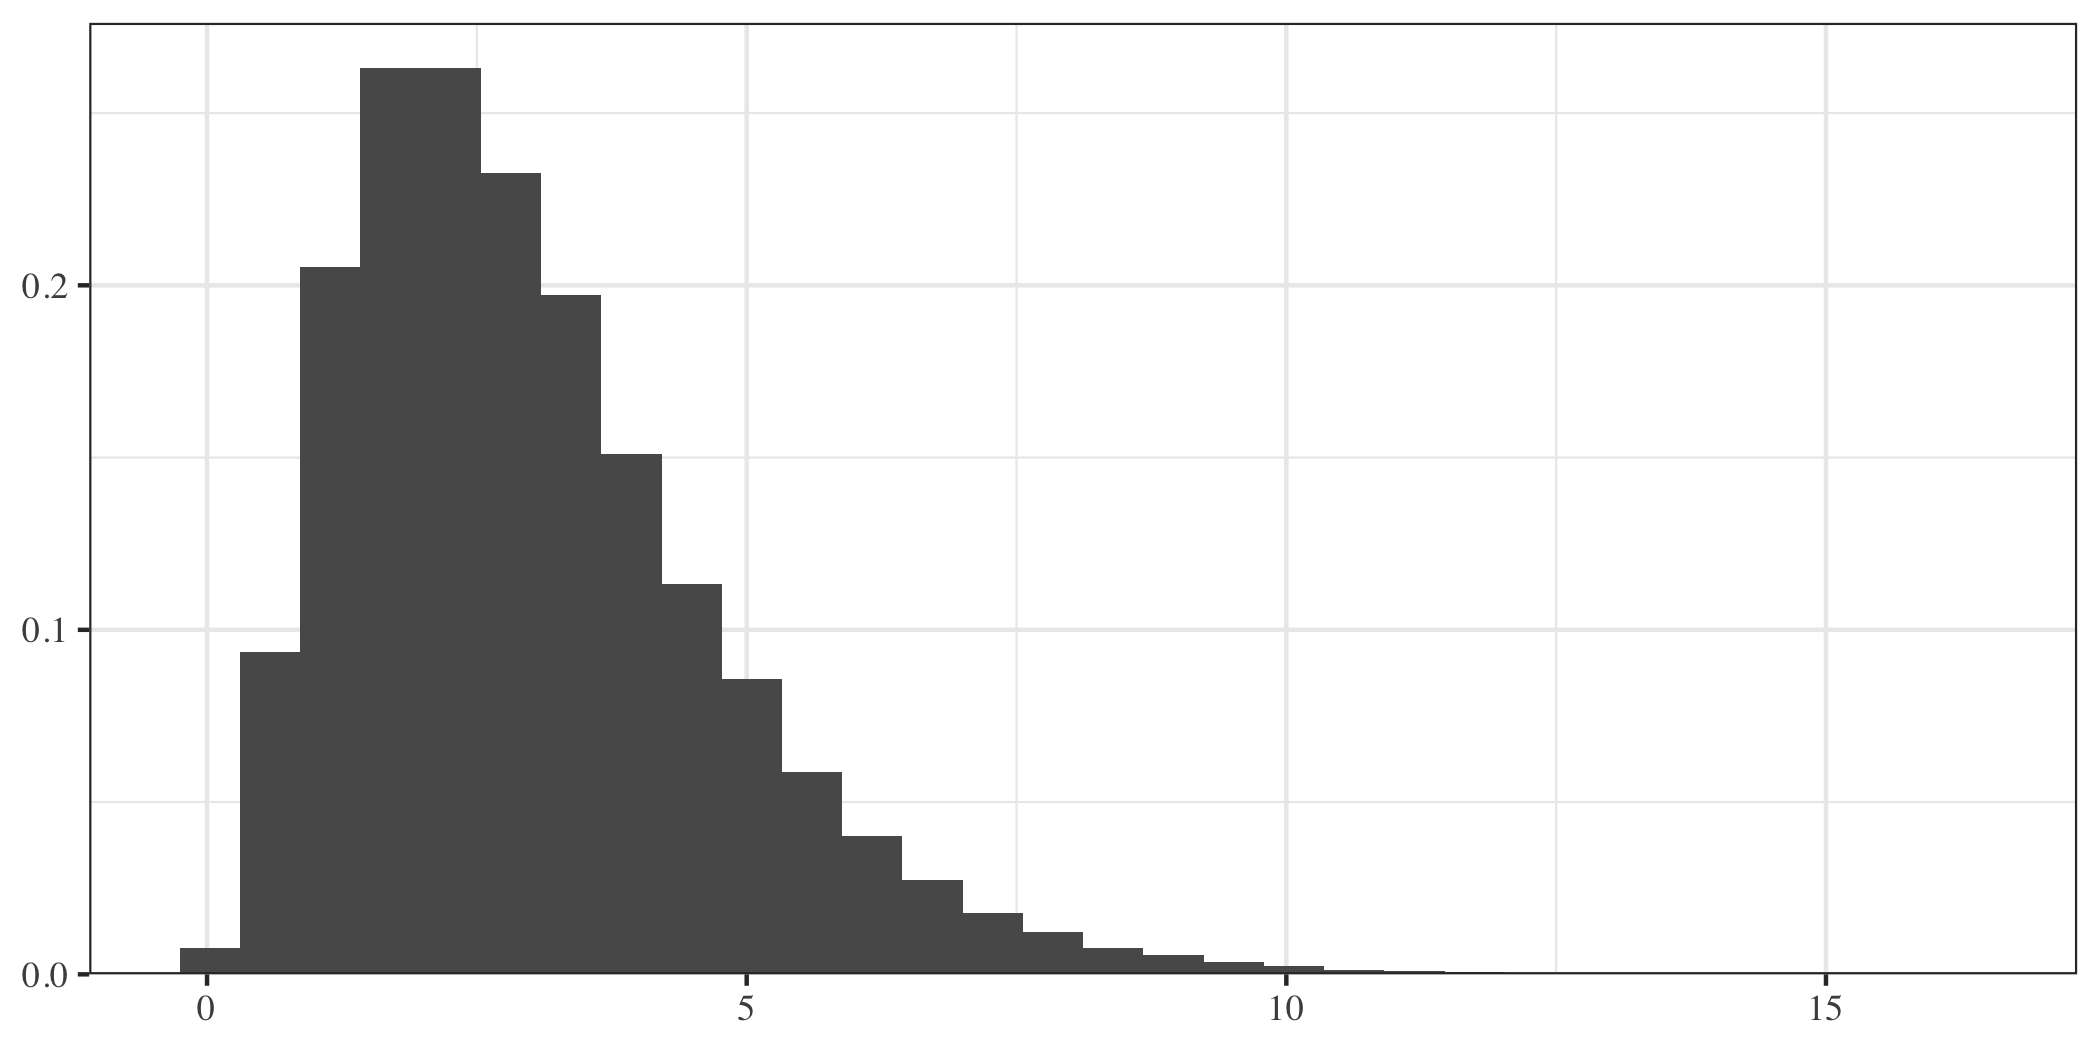
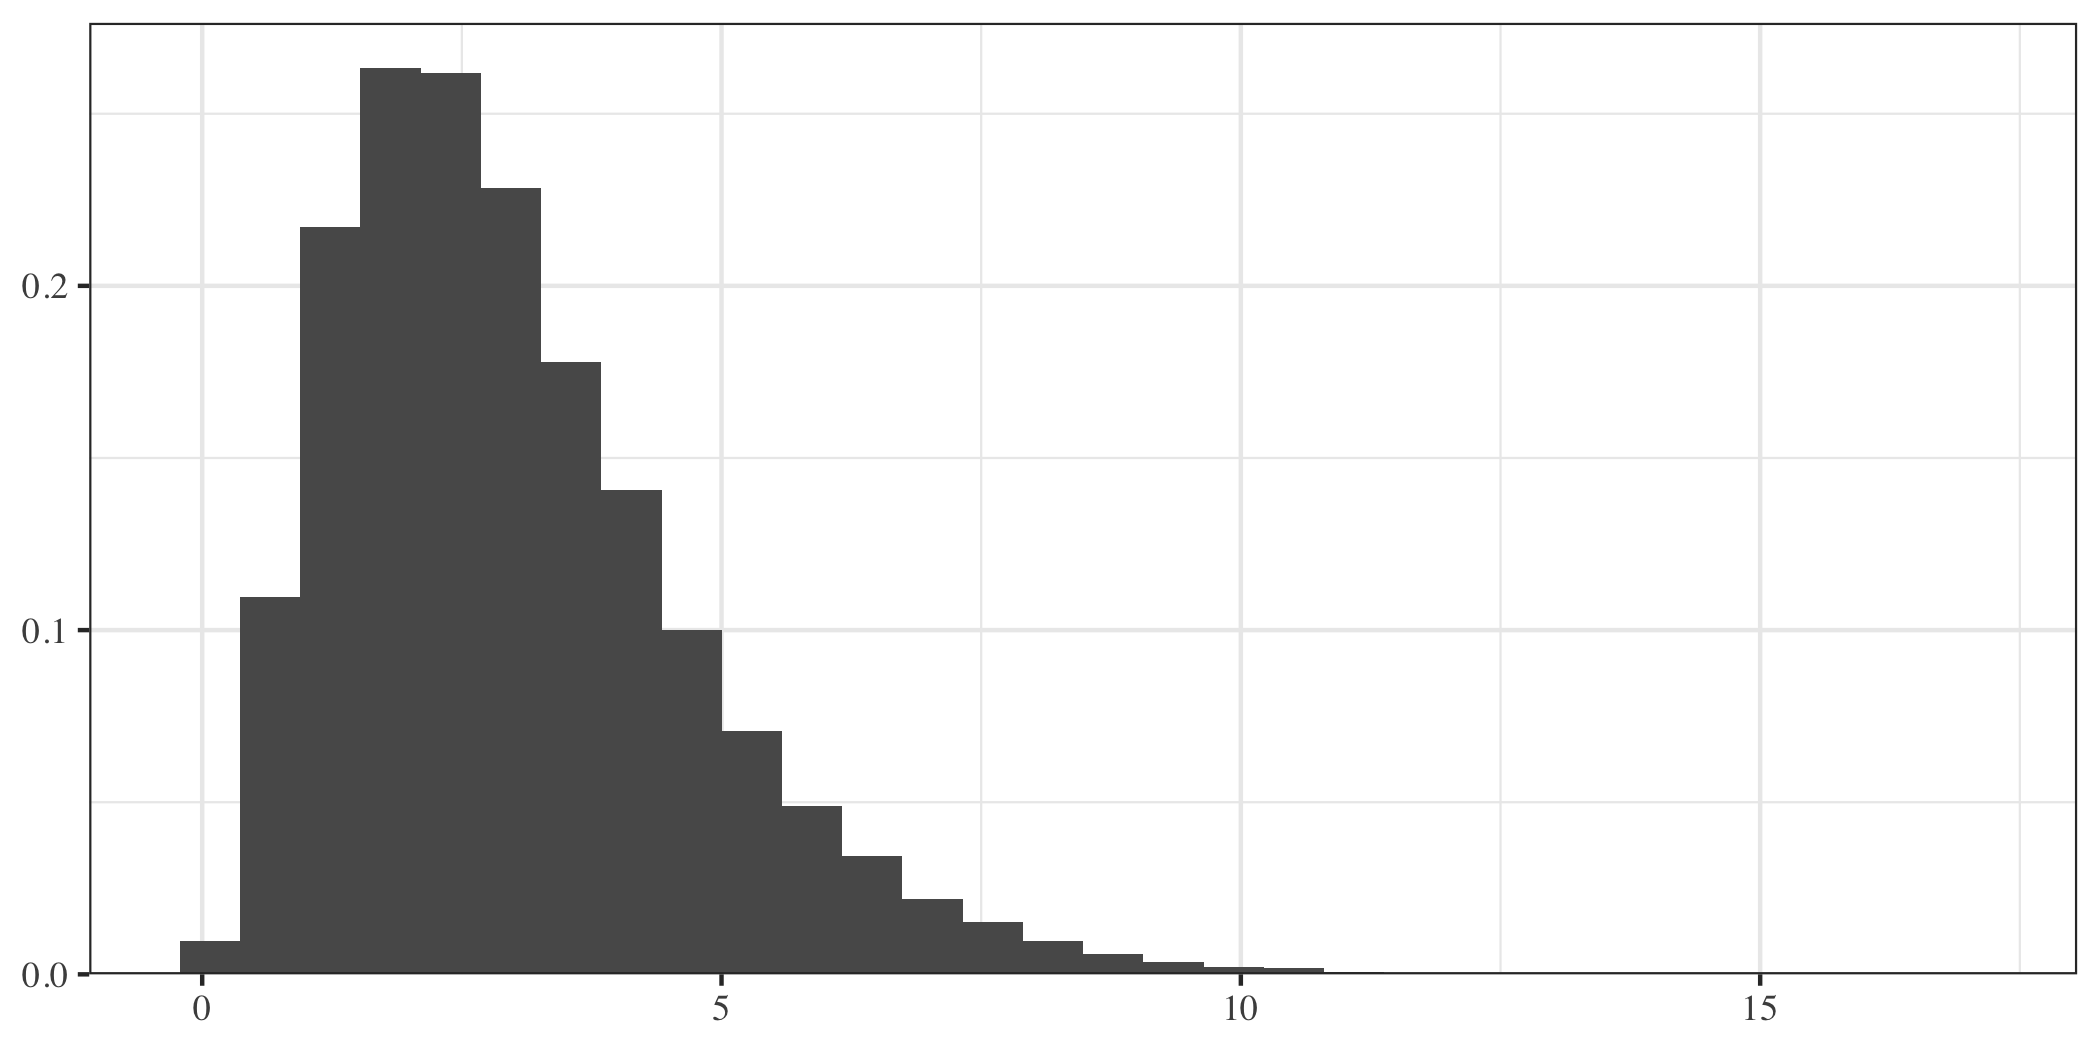
1.0.5 update part 2

diff --git a/_extensions/ajl-wp/_header.md b/_extensions/ajl-wp/_header.md
@@ -10,7 +10,13 @@
 \DeclareMathOperator{\E}{\mathbb{E}}
 \DeclareMathOperator{\Pr}{\mathbb{P}}
 \providecommand{\cvp}{\xrightarrow{\:p\,}}
+\providecommand{\V}{\mathbb{V}}
+\providecommand{\bX}{\mathbf{X}}
+\providecommand{\bx}{\mathbf{x}}
+\providecommand{\oZ}{\overline{Z}}
+\providecommand{\oY}{\overline{Y}}
 \providecommand{\Norm}{\mathcal{N}\qty}
+\providecommand{\Var}{\text{Var}}
 \usepackage{amsmath}
 \usepackage{bm}
 \providecommand{\indep}{\!\perp\!\!\!\perp}

diff --git a/_header.md b/_header.md
@@ -10,7 +10,13 @@
 \DeclareMathOperator{\E}{\mathbb{E}}
 \DeclareMathOperator{\Pr}{\mathbb{P}}
 \providecommand{\cvp}{\xrightarrow{\:p\,}}
+\providecommand{\V}{\mathbb{V}}
+\providecommand{\bX}{\mathbf{X}}
+\providecommand{\bx}{\mathbf{x}}
+\providecommand{\oZ}{\overline{Z}}
+\providecommand{\oY}{\overline{Y}}
 \providecommand{\Norm}{\mathcal{N}\qty}
+\providecommand{\Var}{\text{Var}}
 \usepackage{amsmath}
 \usepackage{bm}
 \providecommand{\indep}{\!\perp\!\!\!\perp}
